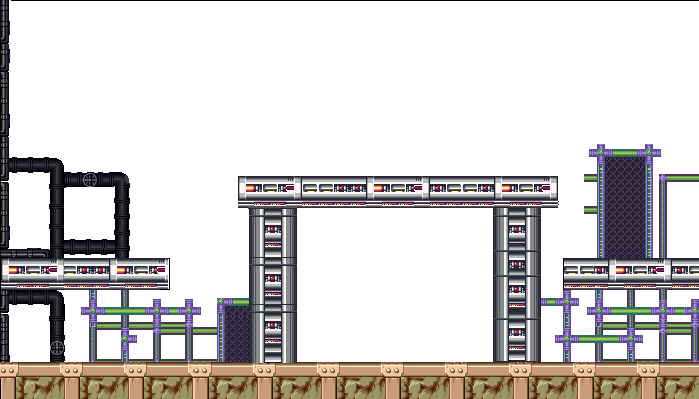
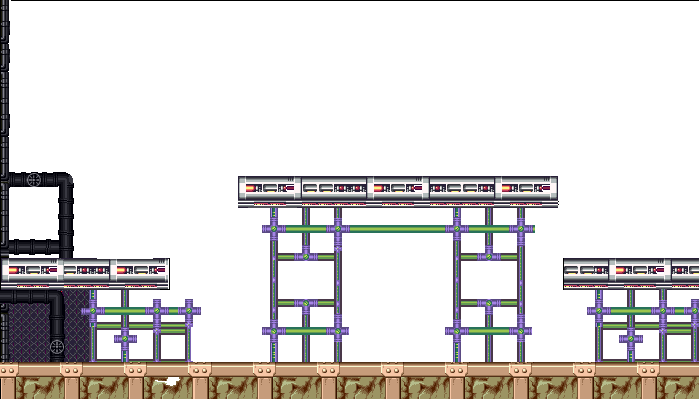
feat: colisao com inimigos, novo background

diff --git a/Lista5/MegamanX_Infinite/src/game.js b/Lista5/MegamanX_Infinite/src/game.js
@@ -3,6 +3,7 @@ import { getKeys, hasKey, keyDownUp } from "./keyboard"
 import Hero from "./Hero"
 import Rect from "./model/Rect"
 import Enemy from "./Enemy"
+import Projetil from "./Projetil"
 
 
 let canvas = document.querySelector('canvas')
@@ -17,7 +18,9 @@ let boundaries = {
     width: canvas.width,
     height: canvas.height - 99
 }
+
 let megaman
+let projetil
 
 let blocos = []
 let plataforma1 = new Rect(0, 225, 169, 30, 'black')
@@ -34,15 +37,16 @@ let gameover = false
 const init = async () => {
 
     console.log("Iniciando game...")
-    
-    bgImage = await loadImage('img/background.png')
-    pattern = ctx.createPattern(bgImage, 'repeat')
+
+    bgImage = await loadImage('img/background3.png')
+    // pattern = ctx.createPattern(bgImage, 'repeat')
     bgImage2 = await loadImage('img/background2.png')
 
     megaman = new Hero(canvas.width / 2, canvas.height, 25, 10, 38, 38, 'img/X.png');
-    enemyLEFT = enemyLEFT.map(e => new Enemy(canvas.width, (Math.random() * canvas.height), 25, 10, 'red','img/enemy.png',1))
+    // projetil = new Projetil(megaman.x,megaman.y,10,15,5,5,'img/.png')
+    enemyLEFT = enemyLEFT.map(e => new Enemy(canvas.width, (Math.random() * canvas.height), 25, 10, 'red', 'img/enemy.png', 1))
     // console.log(enemyLEFT)
-    // enemyRIGTH = enemyRIGTH.map(e => new Enemy(canvas.width, Math.random() * canvas.height,25, 10, 'red','img/enemy.png'))
+    enemyRIGTH = enemyRIGTH.map(e => new Enemy(canvas.width, Math.random() * canvas.height,25, 10, 'red','img/enemy.png'))
 
     console.log("Game iniciado com sucesso!")
 
@@ -55,17 +59,36 @@ const loop = () => {
 
         // ctx.clearRect(0, 0, canvas.width, canvas.height)
 
-        ctx.fillStyle = pattern
-        ctx.fillRect(0, 0, canvas.width, canvas.height)
+        // ctx.fillStyle = pattern
+        // ctx.fillRect(0, 0, canvas.width, canvas.height)
+        ctx.drawImage(bgImage,
+            0,0,480,352,
+            0,0,canvas.width,canvas.height)
         ctx.drawImage(bgImage2, 0, 0)
 
         enemyLEFT.forEach(e => {
             // console.log(e)
-            e.moveEsquerda(boundaries)   
+            e.moveEsquerda(boundaries)
+            if (e.colide(megaman)) {
+                e.respawn(boundaries)
+            }
+
+            e.draaw(ctx)
+        })
+        enemyRIGTH.forEach(e => {
+            // console.log(e)
+            e.move(boundaries)
+            if (e.colide(megaman)) {
+                e.respawn(boundaries)
+            }
+
             e.draaw(ctx)
         })
 
         megaman.move(boundaries, blocos)
+        // megaman.tiros.forEach(t => {
+        //     t.move(boundaries, blocos)
+        // })
         megaman.draw(ctx)
 
         requestAnimationFrame(loop)

diff --git a/Lista5/MegamanX_Infinite/src/Hero.js b/Lista5/MegamanX_Infinite/src/Hero.js
@@ -18,12 +18,13 @@ export default class Hero extends Circle {
 		this.esquerda = false
 		this.direita = false
 		this.atirando = false
+		
+		this.libera_tiro = false
 
 		this.pulo = false
 
 		this.pulando = false
 		this.chao = true
-		this.libera_tiro = false
 		this.gravidade = 10
 		this.velocidadeY = 18
 
@@ -32,7 +33,6 @@ export default class Hero extends Circle {
 		this.frameX = 0
 		this.frameY = 0
 		this.atirando = false
-		this.tiroCOOLDOWN = 60
 
 		this.altura = 38
 		this.largura = 38
@@ -70,7 +70,7 @@ export default class Hero extends Circle {
 
 			let tiro
 			if (this.esquerda)
-				tiro = new Projetil(this.x + this.largura, this.y + this.altura, 5, -15, 'blue', 'img/projetil.png');
+				tiro = new Projetil(this.x + this.largura, this.y + this.altura, 5, -15, 'blue', 'img/X.png');
 			else
 				tiro = new Projetil(this.x, this.y + this.altura, 5, 15, 'blue', 'img/projetil.png');
 			this.tiros.push(tiro);

diff --git a/Lista5/MegamanX_Infinite/src/Enemy.js b/Lista5/MegamanX_Infinite/src/Enemy.js
@@ -8,14 +8,14 @@ export default class Enemy extends Circle {
 		loadImage(this.imgURL)
 			.then(img => {
 				this.img = img
-				this.cellWidth = img.naturalWidth/this.totalSprites
+				this.cellWidth = img.naturalWidth / this.totalSprites
 
 			})
 		this.line = 1
 		this.width = 47
 		this.height = 39
 
-		this.cellHeight= 177
+		this.cellHeight = 177
 		this.cellX = 0
 		this.totalSprites = 3
 		this.spriteSpeed = 1
@@ -64,11 +64,19 @@ export default class Enemy extends Circle {
 
 	limits(limits) {
 
-		if (this.x <0 && Math.random() > 0.9755) {
+		if (this.x < 0 && Math.random() > 0.9755) {
 			// this.trocaCor()
+			this.frameX = 0
 			this.y = Math.random() * limits.height
 			this.x = limits.width + 70
 		}
+	}
+
+	respawn(limits) {
+		this.frameX = 0
+		this.y = Math.random() * limits.height
+		this.x = limits.width + 70
+
 	}
 
 	animeSprite(FRAMES) { //Controla a animacao do sprite

diff --git a/Lista5/MegamanX_Infinite/src/model/Circle.js b/Lista5/MegamanX_Infinite/src/model/Circle.js
@@ -45,7 +45,7 @@ export default class Circle {
 			case 'd':
 				this.status = 'right'
 				break
-			
+
 		}
 
 		switch (this.status) {
@@ -75,13 +75,14 @@ export default class Circle {
 	}
 
 	colide(circ) {
+		// console.log(circ.x)
 		return Math.sqrt((circ.x - this.x) ** 2 + (circ.y - this.y) ** 2) <= this.size + circ.size;
 	}
 
-	trocaCor(){
-		let aux1 = Math.floor(Math.random()*10)
-		let aux2 = Math.floor(Math.random()*10)
-		let aux3 = Math.floor(Math.random()*10)
+	trocaCor() {
+		let aux1 = Math.floor(Math.random() * 10)
+		let aux2 = Math.floor(Math.random() * 10)
+		let aux3 = Math.floor(Math.random() * 10)
 		this.color = `#${aux1}${aux2}${aux3}`
 	}
 }
